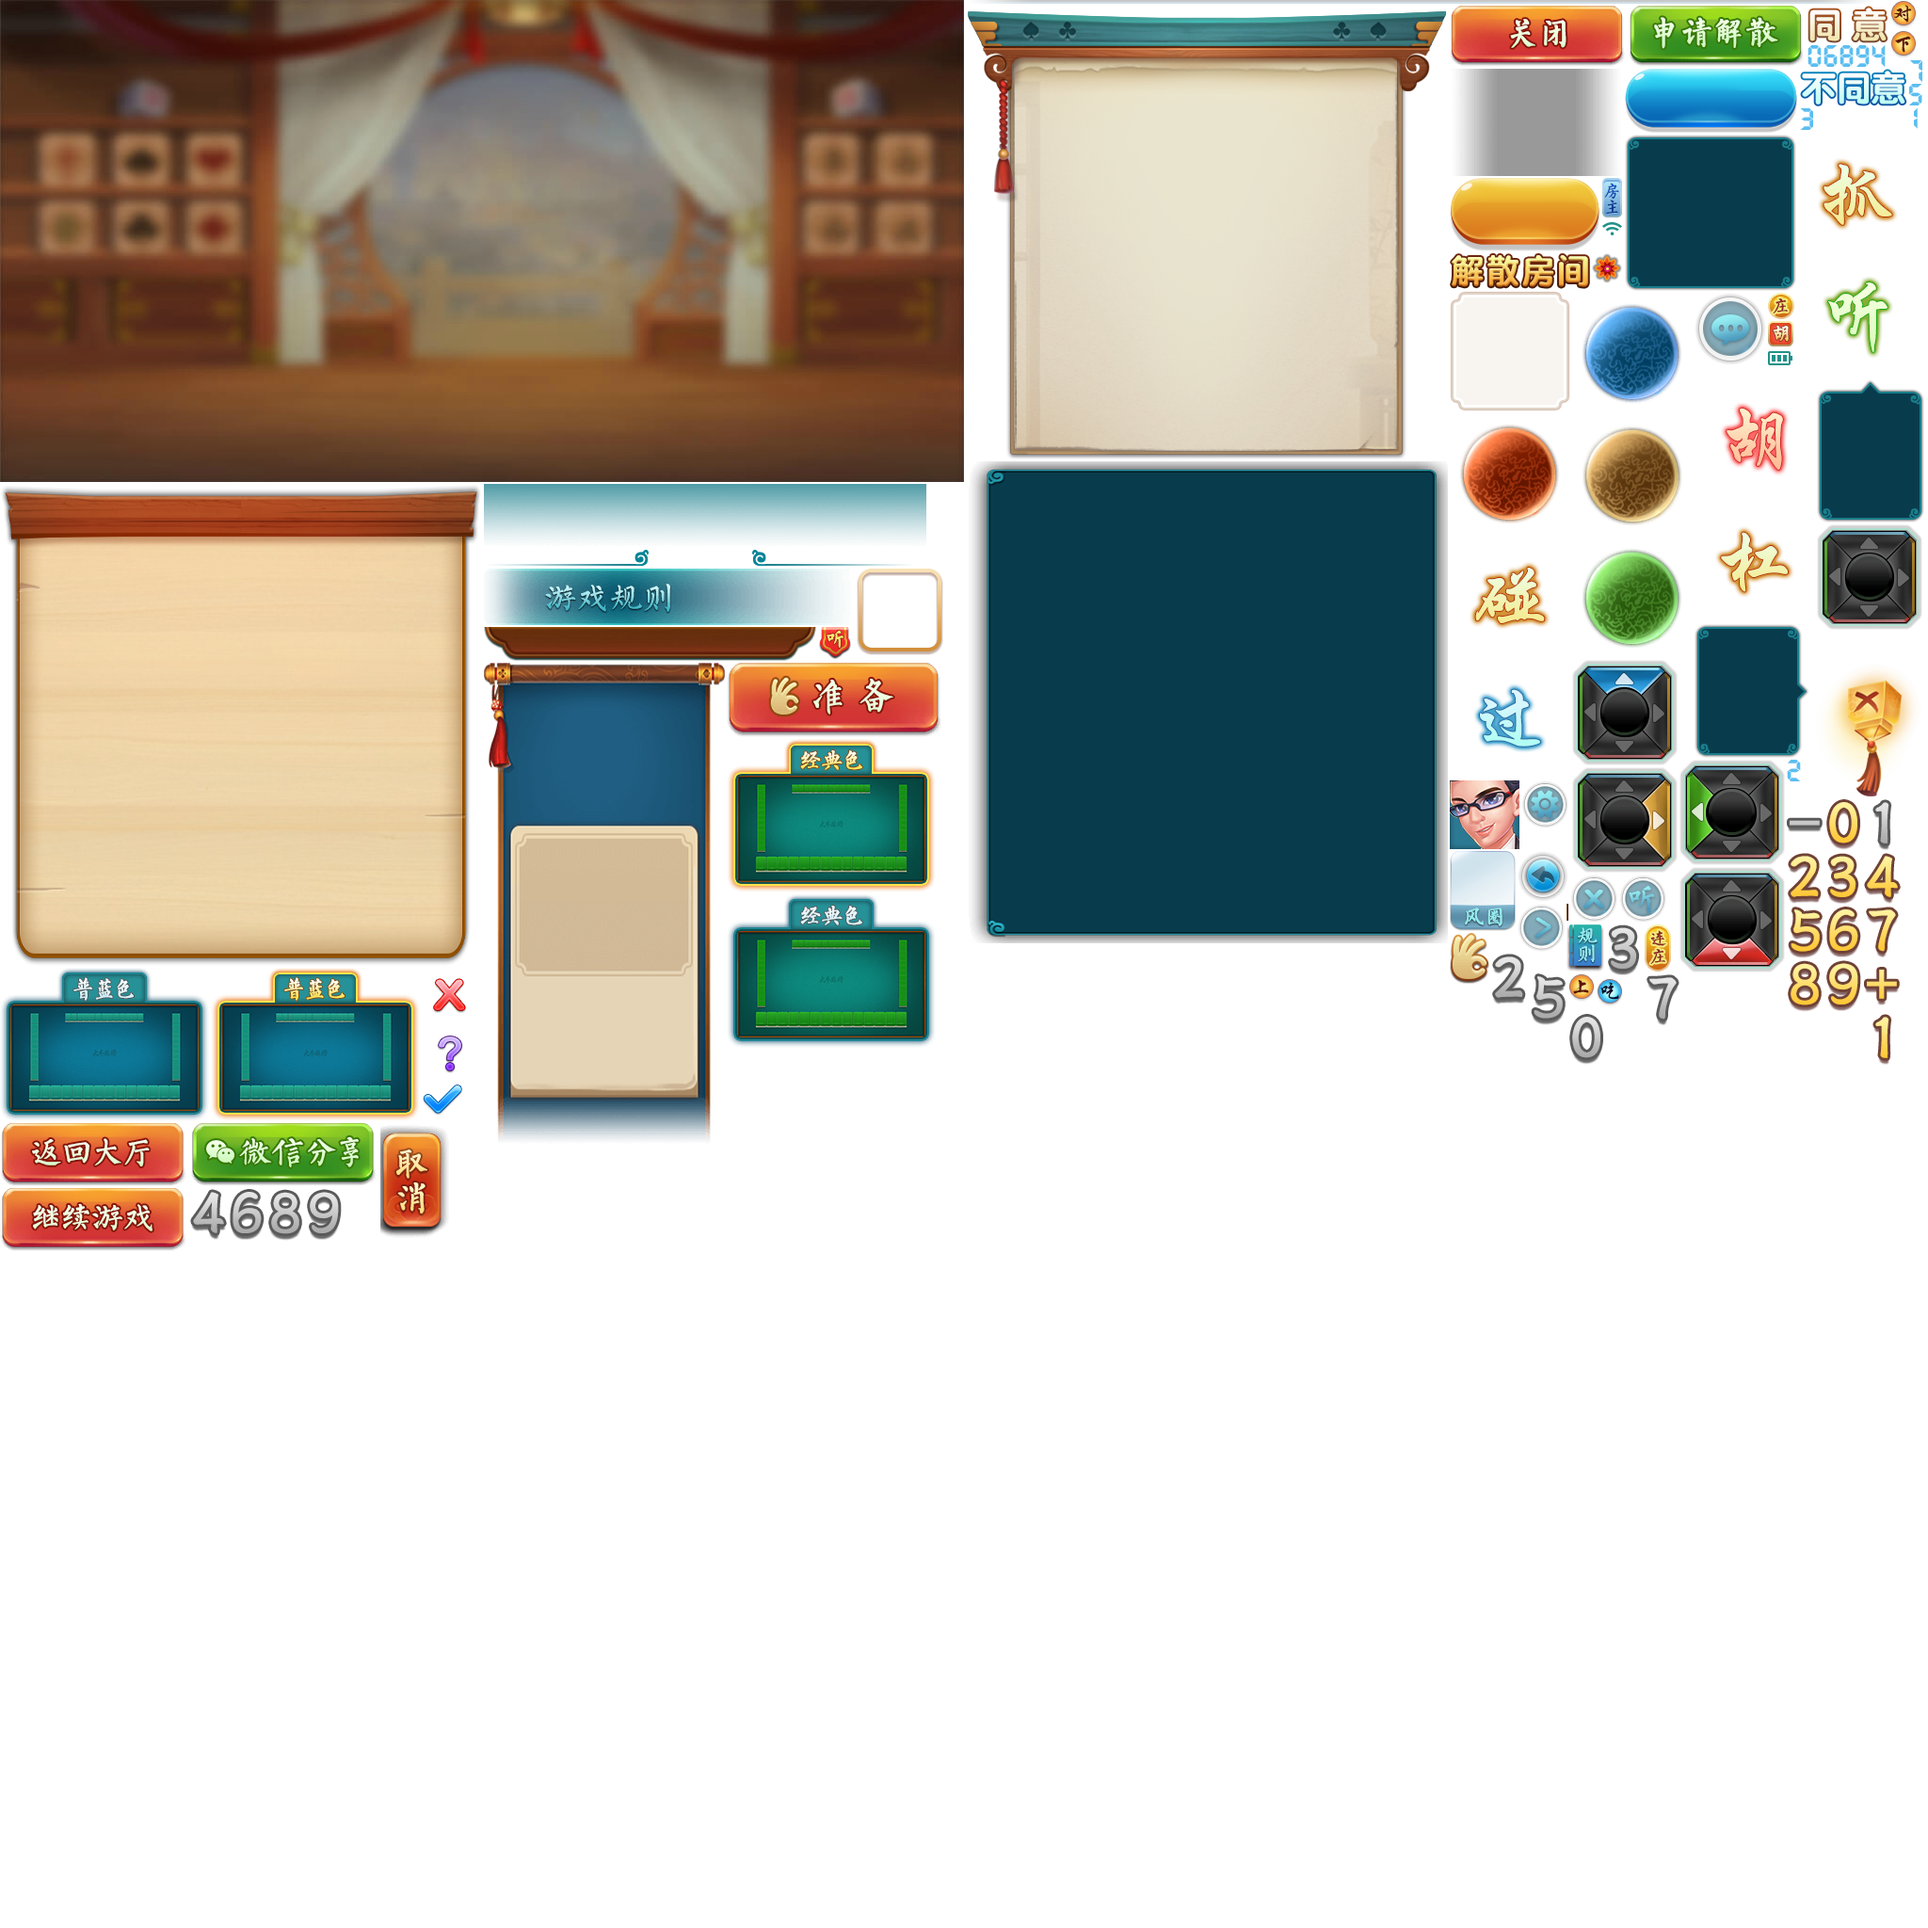
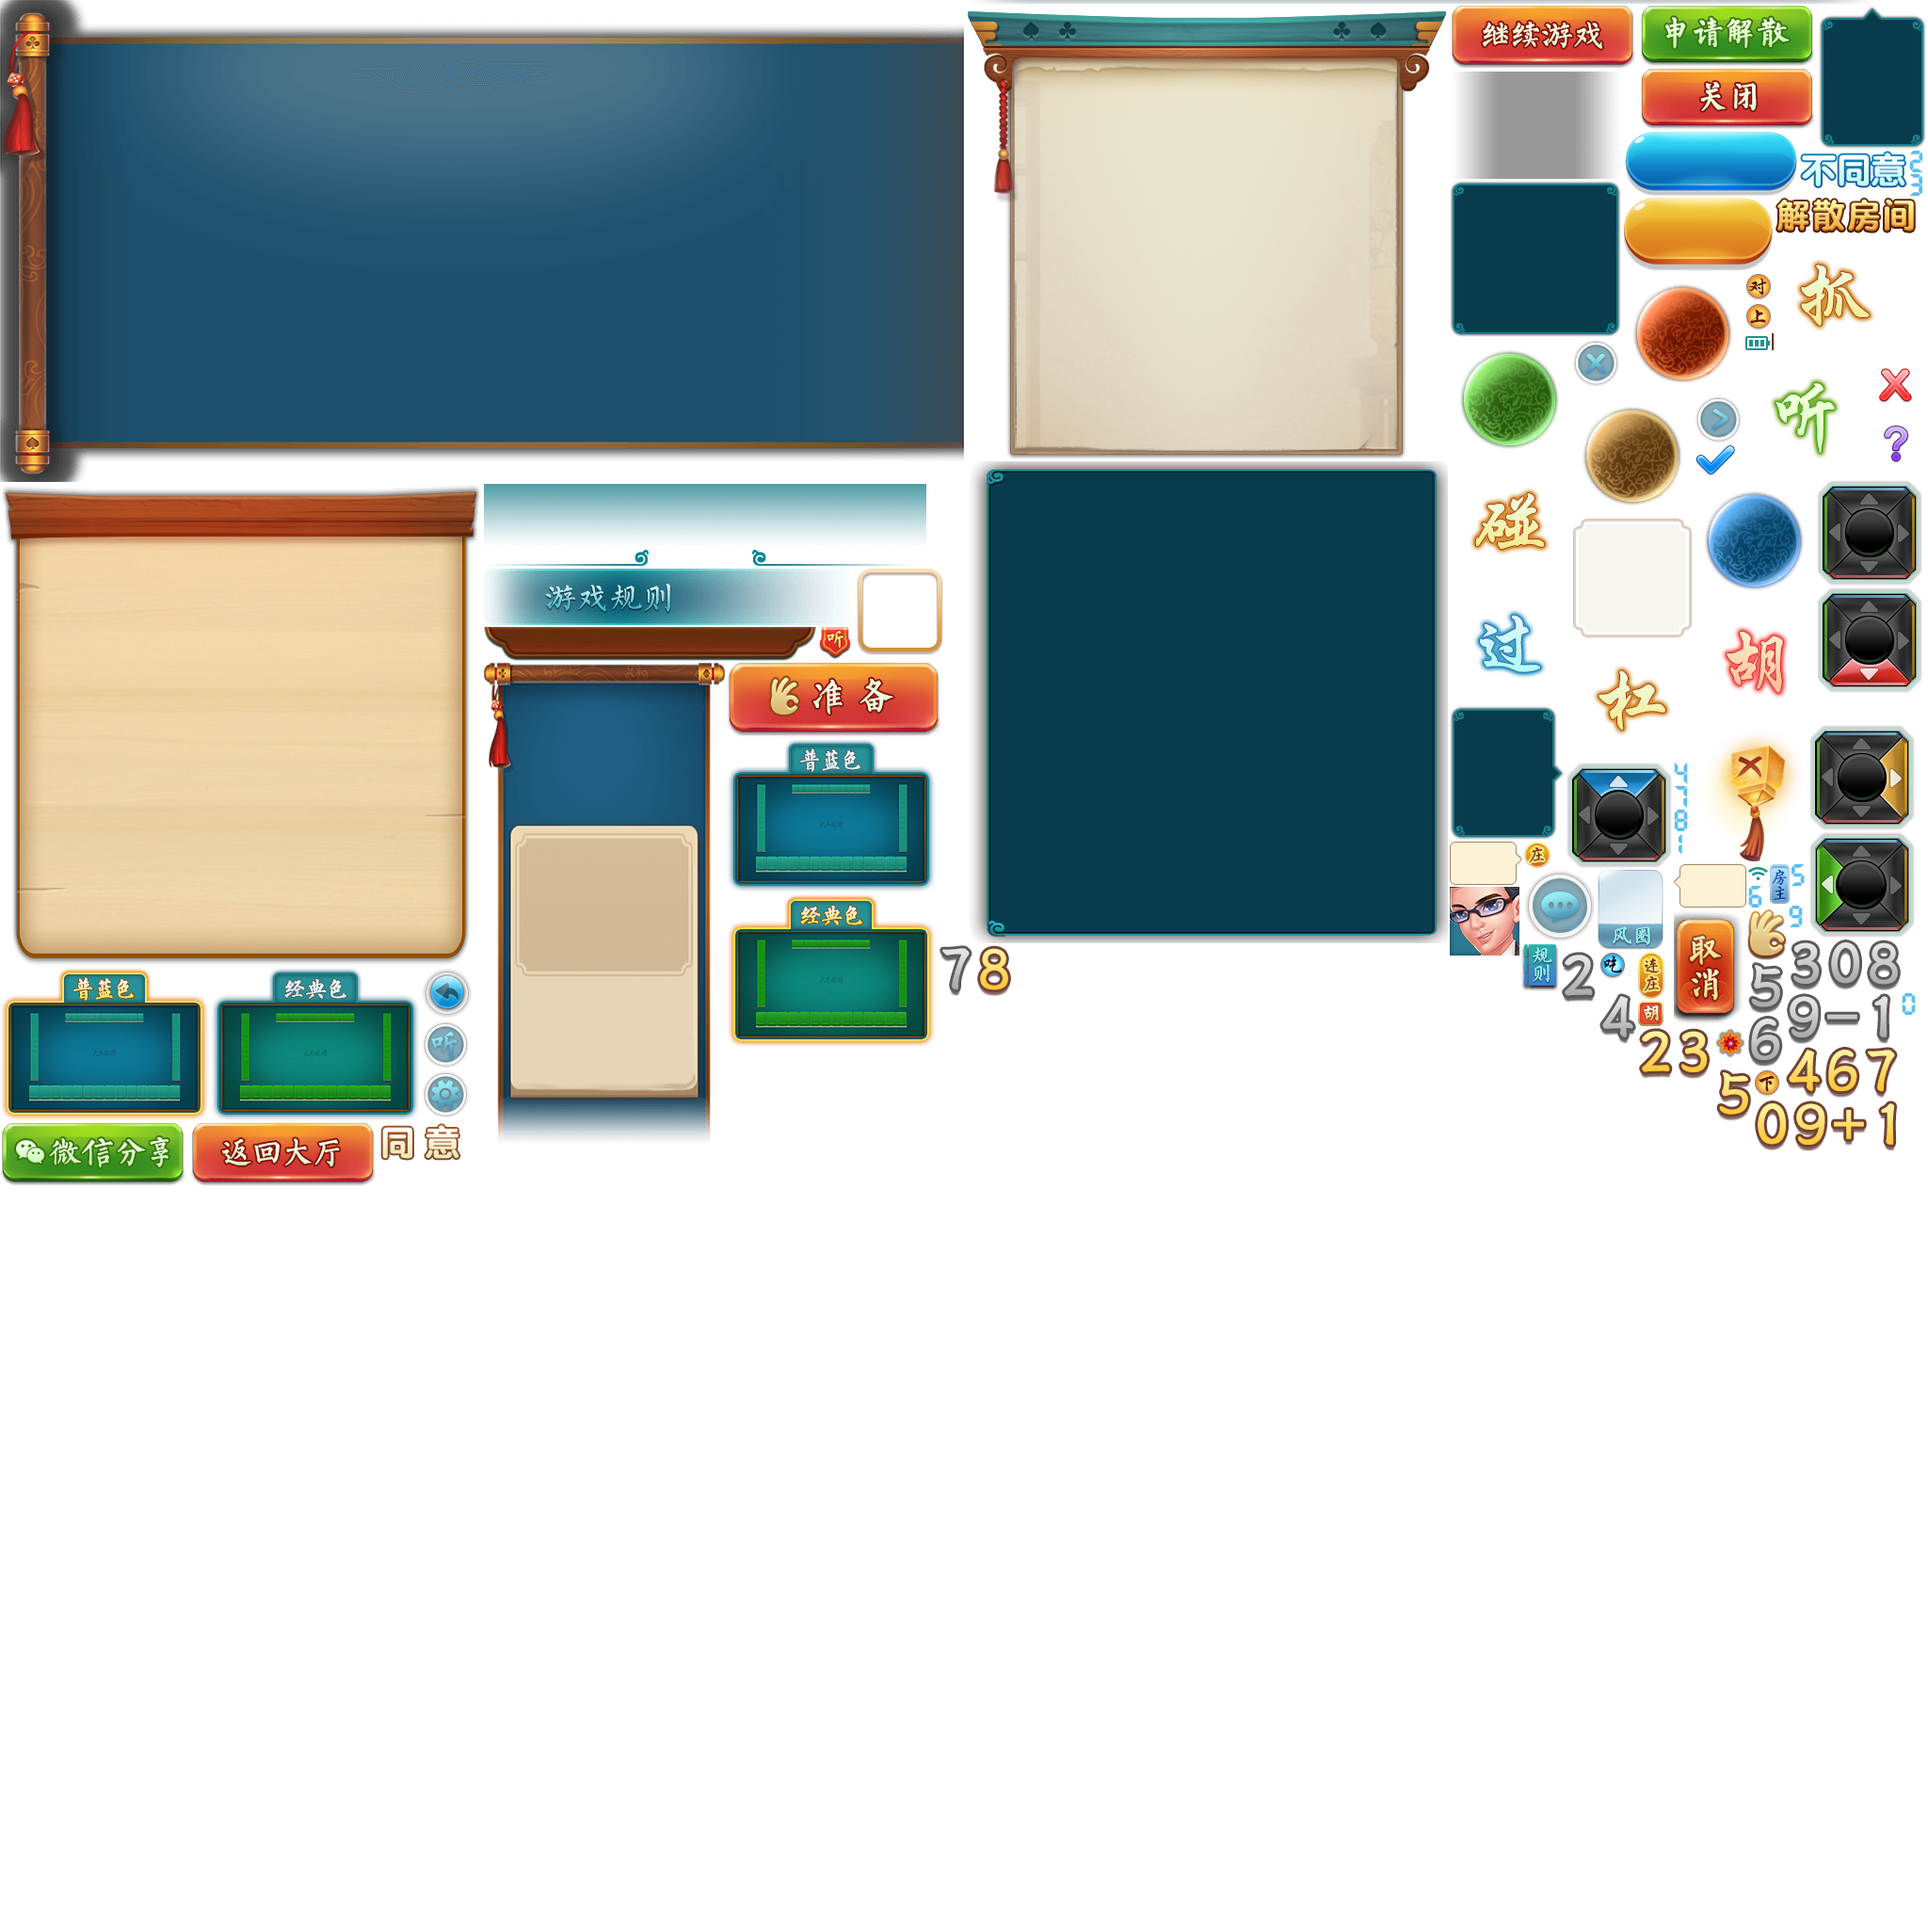
显示 聊天气泡

diff --git a/assets/Script/modules/lobby/views/chat/ChatView.ts b/assets/Script/modules/lobby/views/chat/ChatView.ts
@@ -3,7 +3,7 @@ import { proto } from "../../proto/protoLobby";
 // tslint:disable-next-line:no-require-imports
 import bytebuffer = require("../../protobufjs/bytebuffer");
 
-const phraseMap: {[key: number]: string} = {
+const phraseMap: { [key: number]: string } = {
     [1]: "快点啊，都等到我花都谢了。。。",
     [2]: "真怕猪一样的队友。。。",
     [3]: "一走一停真有型，一秒一卡好潇洒。。。",
@@ -17,6 +17,27 @@ const phraseMap: {[key: number]: string} = {
     [11]: "屌爆了啊",
     [12]: "我就剩两张牌了。。。"
 };
+
+/**
+ * 聊天信息帮助类
+ */
+class ChatData {
+    public fromUserID: string;
+    public toUserID: string;
+    public scope: number;
+    public dataType: number;
+    public data: ByteBuffer;
+    public id: string;
+    public msg: string;
+    public constructor(chat: proto.lobby.MsgChat) {
+        this.fromUserID = chat.from;
+        this.toUserID = chat.to;
+        this.id = chat.id;
+        this.dataType = chat.dataType;
+        this.scope = chat.scope;
+        this.data = chat.data;
+    }
+}
 
 interface MsgContent {
     msg: string;
@@ -46,9 +67,11 @@ export class ChatView extends cc.Component {
 
     private userID: string;
 
-    private msgList: {[key: number]: proto.lobby.MsgChat};
+    private msgCallBack: Function;
+    private msgList: { [key: number]: ChatData };
 
-    public show(loader: GResLoader): void {
+    public show(loader: GResLoader, msgCallBack: Function): void {
+        this.msgCallBack = msgCallBack;
         if (this.view !== null) {
             fgui.GRoot.inst.showPopup(this.view);
             const size = cc.view.getVisibleSize();
@@ -72,9 +95,9 @@ export class ChatView extends cc.Component {
 
         this.userID = DataStore.getString("userID", "");
 
-        this.lobbyModule = <LobbyModuleInterface> this.node.getParent().getComponent("LobbyModule");
+        this.lobbyModule = <LobbyModuleInterface>this.node.getParent().getComponent("LobbyModule");
         if (this.lobbyModule !== null) {
-          this.onMessageFunc = this.lobbyModule.eventTarget.on(`${proto.lobby.MessageCode.OPChat}`, this.onMessage, this);
+            this.onMessageFunc = this.lobbyModule.eventTarget.on(`${proto.lobby.MessageCode.OPChat}`, this.onMessage, this);
         }
 
     }
@@ -164,13 +187,13 @@ export class ChatView extends cc.Component {
     }
 
     private getHistoryListItemResource(index: number): string {
-            const msgChat = this.msgList[index + 1];
-            Logger.debug("msgChat.from : ", msgChat.from);
-            if (msgChat.from === this.userID) {
-                return "ui://lobby_chat/chat_history_me_item";
-            } else {
-                return "ui://lobby_chat/chat_history_other_item";
-            }
+        const msgChat = this.msgList[index + 1];
+        Logger.debug("msgChat.from : ", msgChat.fromUserID);
+        if (msgChat.fromUserID === this.userID) {
+            return "ui://lobby_chat/chat_history_me_item";
+        } else {
+            return "ui://lobby_chat/chat_history_other_item";
+        }
     }
 
     private changeList(myType: number): void {
@@ -272,24 +295,34 @@ export class ChatView extends cc.Component {
         const msg = phraseMap[index + 1];
         const t = obj.getChild("n3");
         t.text = msg;
-}
+    }
 
-private renderHistoryListItem(index: number, item: fgui.GObject): void {
+    private renderHistoryListItem(index: number, item: fgui.GObject): void {
         const chatMsg = this.msgList[index + 1];
-        const contentString = chatMsg.data.toUTF8();
-        const msgContent = <MsgContent>JSON.parse(contentString);
+        // const contentString = chatMsg.data.toUTF8();
+        // const msgContent = <MsgContent>JSON.parse(contentString);
 
         const obj = item.asCom;
         const t = obj.getChild("text");
-        t.text = msgContent.msg;
-}
+        t.text = chatMsg.msg;
+    }
 
     private addMsg(msg: ByteBuffer): void {
         const chatMsg = proto.lobby.MsgChat.decode(msg);
+        const chatData = new ChatData(chatMsg);
 
-        const length = Object.keys(this.msgList).length  + 1;
-        this.msgList[length] = chatMsg;
+        const contentString = chatMsg.data.toUTF8();
+        const msgContent = <MsgContent>JSON.parse(contentString);
+        chatData.msg = msgContent.msg;
+
+        const length = Object.keys(this.msgList).length + 1;
+        this.msgList[length] = chatData;
         this.historyList.numItems = length;
         this.historyList.scrollPane.scrollBottom();
+
+        if (this.msgCallBack !== undefined && this.msgCallBack !== null) {
+            this.msgCallBack(chatData.fromUserID, chatData.msg);
+        }
+        // this.roomInterface.showMsg(chatMsg.from);
     }
 }

diff --git a/assets/Script/modules/gameb/PlayerView.ts b/assets/Script/modules/gameb/PlayerView.ts
@@ -81,6 +81,8 @@ export class PlayerView {
 
     private aniPos: fgui.GObject;
     private userInfoPos: fgui.GObject;
+    private qipao: fgui.GComponent;
+    private qipaoText: fgui.GObject;
     private alreadyShowNonDiscardAbleTips: boolean;
     private discardTipsTile: fgui.GComponent;
     private btnHanders: { [key: string]: Function };
@@ -89,6 +91,7 @@ export class PlayerView {
     private lastClickIndex: number;
 
     private dragHand: fgui.GComponent; //拖牌时 克隆的牌
+    private msgTimerCB: Function;
 
     public constructor(viewUnityNode: fgui.GComponent, viewChairID: number, room: RoomInterface) {
         this.room = room;
@@ -668,6 +671,23 @@ export class PlayerView {
         return this.userInfoPos;
     }
 
+    //显示聊天消息
+    public showChatMsg(str: string): void {
+        if (str !== undefined && str !== null) {
+            if (this.msgTimerCB === undefined) {
+                this.msgTimerCB = <Function>this.hideChatMsg.bind(this);
+            }
+            this.qipaoText.text = str;
+            this.qipao.visible = true;
+            //定时隐藏
+            this.roomHost.component.unschedule(this.msgTimerCB);
+            this.roomHost.component.scheduleOnce(this.msgTimerCB, 3);
+        }
+    }
+    private hideChatMsg(): void {
+        this.qipao.visible = false;
+    }
+
     private initOtherView(): void {
 
         // this.aniPos = view.getChild("aniPos")
@@ -676,6 +696,10 @@ export class PlayerView {
         //打出的牌放大显示
         this.discardTips = this.myView.getChild("discardTip").asCom;
         this.discardTipsTile = this.discardTips.getChild("card").asCom;
+
+        //聊天气泡
+        this.qipao = this.myView.getChild("qipao").asCom;
+        this.qipaoText = this.qipao.getChild("text");
     }
 
     //头像周边内容节点

diff --git a/assets/Script/modules/gameb/RoomView.ts b/assets/Script/modules/gameb/RoomView.ts
@@ -220,7 +220,7 @@ export class RoomView {
 
     //设置当前房间所使用的风圈
     public setRoundMask(): void {
-        if (GameRules.haveFlower(this.room.roomType)) {
+        if (GameRules.haveRoundMask(this.room.roomType)) {
             this.wind.visible = true;
             this.windTile.visible = true;
             TileImageMounter.mountTileImage(this.windTile, this.room.windFlowerID);
@@ -310,9 +310,9 @@ export class RoomView {
             chatView = this.component.addComponent(ChatView);
         }
 
-        chatView.show(load);
+        const callBack: Function = <Function>this.room.showMsg.bind(this.room);
+        chatView.show(load, callBack);
     }
-
     /**
      * 初始化
      */

diff --git a/assets/Script/modules/gameb/GameModule.ts b/assets/Script/modules/gameb/GameModule.ts
@@ -1,4 +1,3 @@
-// tslint:disable-next-line:max-line-length
 import {
     AnimationMgr, DataStore, Dialog, GameModuleInterface,
     GameModuleLaunchArgs, GResLoader, LEnv,
@@ -34,7 +33,6 @@ export class GameModule extends cc.Component implements GameModuleInterface {
     private lm: LobbyModuleInterface;
     private mUser: UserInfo;
     private mAnimationMgr: AnimationMgr;
-
     public get room(): Room {
         return this.mRoom;
     }

diff --git a/assets/Script/modules/gameb/GameRules.ts b/assets/Script/modules/gameb/GameRules.ts
@@ -231,4 +231,8 @@ export namespace GameRules {
     export const haveJiaJiaZhuang = (gameType: number): boolean => {
         return gameType === ROOM_TYPE.DaFeng;
     };
+    //是否有风圈
+    export const haveRoundMask = (gameType: number): boolean => {
+        return gameType === ROOM_TYPE.DaFeng;
+    };
 }

diff --git a/assets/Script/modules/gameb/Room.ts b/assets/Script/modules/gameb/Room.ts
@@ -473,7 +473,10 @@ export class Room {
         //
         this.roomView.switchBg(index);
     }
-
+    public showMsg(userID: string, str: string): void {
+        const pv = this.players[userID].playerView;
+        pv.showChatMsg(str);
+    }
     /**
      * 挂起若干秒
      * @param seconds 秒数

diff --git a/assets/Script/modules/gameb/RoomInterface.ts b/assets/Script/modules/gameb/RoomInterface.ts
@@ -143,4 +143,5 @@ export interface RoomInterface {
 
     getMyPlayerInfo(): PlayerInfo;
     sendDonate(donateId: number, toChairID: number): void;
+    showMsg(userID: string, str: string): void;
 }
